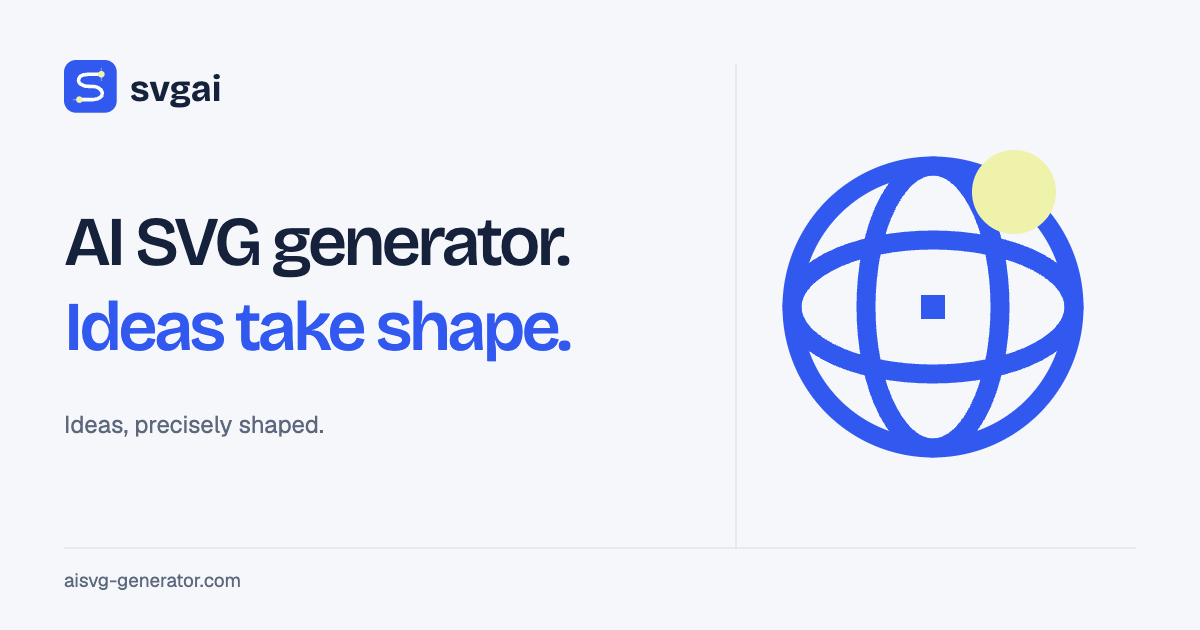
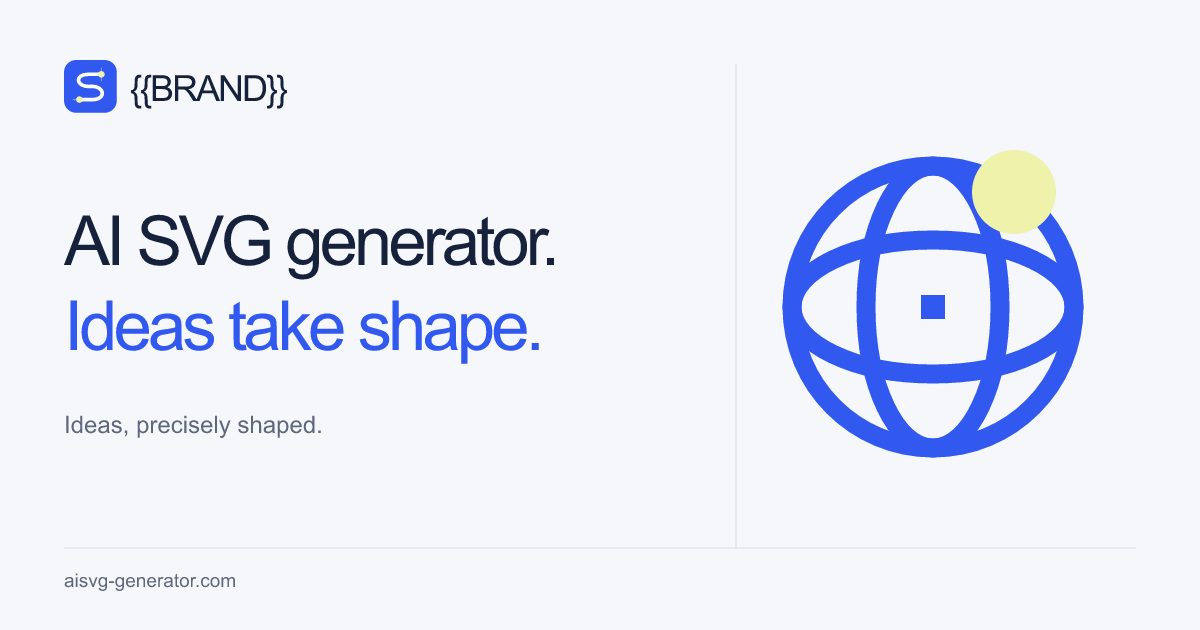
1

diff --git a/src/components/svg-generator.tsx b/src/components/svg-generator.tsx
@@ -40,6 +40,7 @@ import { Link, useRouter } from '@/core/i18n/navigation';
 import { ApiError, apiGet, apiPost } from '@/lib/api-client';
 import {
   getSvgStats,
+  inspectRaster,
   outlineSvg,
   prepareImagePng,
   recolorSvg,
@@ -113,6 +114,10 @@ export function SvgGenerator({
   const [comparisonPosition, setComparisonPosition] = useState(50);
   const [file, setFile] = useState<File | null>(null);
   const [imageUrl, setImageUrl] = useState('');
+  const [imageDimensions, setImageDimensions] = useState<{
+    width: number;
+    height: number;
+  } | null>(null);
   const [removeBackground, setRemoveBackground] = useState(true);
   const [colorCount, setColorCount] = useState(8);
   const [dragging, setDragging] = useState(false);
@@ -610,13 +615,34 @@ export function SvgGenerator({
     return () => window.removeEventListener('svgai:load-sample', listener);
   });
   useEffect(() => {
+    let active = true;
+    setImageUrl('');
+    setImageDimensions(null);
     if (!file) {
-      setImageUrl('');
       return;
     }
     const url = URL.createObjectURL(file);
-    setImageUrl(url);
-    return () => URL.revokeObjectURL(url);
+    void file
+      .arrayBuffer()
+      .then(async (bytes) => {
+        inspectRaster(new Uint8Array(bytes), file.type);
+        const bitmap = await createImageBitmap(file);
+        try {
+          if (active) {
+            setImageDimensions({ width: bitmap.width, height: bitmap.height });
+            setImageUrl(url);
+          }
+        } finally {
+          bitmap.close();
+        }
+      })
+      .catch(() => {
+        if (active) setError(copy.invalid_file);
+      });
+    return () => {
+      active = false;
+      URL.revokeObjectURL(url);
+    };
   }, [file]);
   useEffect(
     () => () => {
@@ -958,6 +984,8 @@ export function SvgGenerator({
                       className="svg-upload-preview"
                       src={imageUrl}
                       alt={copy.uploaded_image}
+                      width={imageDimensions!.width}
+                      height={imageDimensions!.height}
                     />
                     <span className="svg-file-name">{file.name}</span>
                     <button
@@ -1193,6 +1221,9 @@ export function SvgGenerator({
                 colorSrc={artworkUrl}
                 outlineSrc={outlineArtworkUrl}
                 alt={copy.preview_alt}
+                width={stats.width}
+                height={stats.height}
+                priority
                 copy={comparisonCopy}
                 value={comparisonPosition}
                 onValueChange={setComparisonPosition}
@@ -1322,6 +1353,8 @@ export function SvgGenerator({
               colorSrc={artworkUrl}
               outlineSrc={outlineArtworkUrl}
               alt={copy.preview_alt}
+              width={stats.width}
+              height={stats.height}
               copy={comparisonCopy}
               value={comparisonPosition}
               onValueChange={setComparisonPosition}

diff --git a/src/blocks/svg-story.tsx b/src/blocks/svg-story.tsx
@@ -29,8 +29,16 @@ export function SvgIntroduction() {
         </div>
       </div>
       <div className="svg-story-prose">
-        <p>{m['svgai.seo.intro_one']()}</p>
-        <p>{m['svgai.seo.intro_two']()}</p>
+        <p>
+          {m['svgai.seo.intro_one']()} {m['svgai.seo.text_context']()}{' '}
+          <Link href="/text-to-svg">{m['svgai.marketing.nav_text']()}</Link>{' '}
+          {m['svgai.seo.text_context_end']()}
+        </p>
+        <p>
+          {m['svgai.seo.intro_two']()} {m['svgai.seo.image_context']()}{' '}
+          <Link href="/image-to-svg">{m['svgai.marketing.nav_image']()}</Link>{' '}
+          {m['svgai.seo.image_context_end']()}
+        </p>
       </div>
     </section>
   );
@@ -58,13 +66,25 @@ export function SvgUseCases() {
     <section className="svgai-container svg-uses">
       <h2>{m['svgai.seo.uses_title']()}</h2>
       <div className="svg-use-list">
-        {items.map(({ Icon, title, text }) => (
+        {items.map(({ Icon, title, text }, index) => (
           <article key={title}>
             <div className="svg-use-title">
               <Icon size={23} strokeWidth={1.4} />
               <h3>{title}</h3>
             </div>
-            <p>{text}</p>
+            <p>
+              {text}
+              {index === 0 && (
+                <>
+                  {' '}
+                  {m['svgai.seo.examples_context']()}{' '}
+                  <Link href="/examples">
+                    {m['svgai.marketing.nav_examples']()}
+                  </Link>{' '}
+                  {m['svgai.seo.examples_context_end']()}
+                </>
+              )}
+            </p>
           </article>
         ))}
       </div>
@@ -108,7 +128,11 @@ export function SvgClosing() {
     <section className="svgai-container svg-closing">
       <div>
         <h2>{m['svgai.seo.cta_title']()}</h2>
-        <p>{m['svgai.seo.cta_text']()}</p>
+        <p>
+          {m['svgai.seo.cta_text']()} {m['svgai.seo.pricing_context']()}{' '}
+          <Link href="/pricing">{m['svgai.seo.pricing_link']()}</Link>{' '}
+          {m['svgai.seo.pricing_context_end']()}
+        </p>
       </div>
       <Link href="/#generator" className="svg-brand-button">
         {m['svgai.seo.cta_action']()}

diff --git a/src/components/svg-comparison.tsx b/src/components/svg-comparison.tsx
@@ -18,6 +18,8 @@ export function SvgComparison({
   colorSrc,
   outlineSrc,
   alt,
+  width,
+  height,
   copy,
   className,
   value,
@@ -25,10 +27,13 @@ export function SvgComparison({
   scale = 1,
   disabled = false,
   loading = 'eager',
+  priority = false,
 }: {
   colorSrc: string;
   outlineSrc: string;
   alt: string;
+  width: number;
+  height: number;
   copy: SvgComparisonCopy;
   className?: string;
   value?: number;
@@ -36,6 +41,7 @@ export function SvgComparison({
   scale?: number;
   disabled?: boolean;
   loading?: 'eager' | 'lazy';
+  priority?: boolean;
 }) {
   const hintId = useId();
   const [position, setPosition] = useState(50);
@@ -55,9 +61,12 @@ export function SvgComparison({
         <img
           className="svg-comparison-image svg-comparison-outline"
           src={outlineSrc}
+          width={width}
+          height={height}
           alt=""
           draggable={false}
           loading={loading}
+          fetchPriority={priority ? 'high' : undefined}
           decoding="async"
         />
       </div>
@@ -65,9 +74,12 @@ export function SvgComparison({
         <img
           className="svg-comparison-image"
           src={colorSrc}
+          width={width}
+          height={height}
           alt=""
           draggable={false}
           loading={loading}
+          fetchPriority={priority ? 'high' : undefined}
           decoding="async"
         />
       </div>

diff --git a/src/components/svg-example-gallery.tsx b/src/components/svg-example-gallery.tsx
@@ -2,7 +2,7 @@ import { useId, useMemo, useState } from 'react';
 import type { SvgSample, SvgStyle } from '@/types/svg-generator';
 import { ArrowUpRight, ChevronsLeftRight } from 'lucide-react';
 
-import { outlineSvg, svgToDataUrl } from '@/lib/svg-vectorizer';
+import { getSvgStats, outlineSvg, svgToDataUrl } from '@/lib/svg-vectorizer';
 import {
   SvgComparison,
   type SvgComparisonCopy,
@@ -41,6 +41,7 @@ export function SvgExampleGallery({
     () =>
       samples.map((sample) => ({
         ...sample,
+        dimensions: getSvgStats(sample.svg),
         colorUrl: svgToDataUrl(sample.svg),
         outlineUrl: svgToDataUrl(outlineSvg(sample.svg)),
       })),
@@ -105,6 +106,8 @@ export function SvgExampleGallery({
                 colorSrc={sample.colorUrl}
                 outlineSrc={sample.outlineUrl}
                 alt={sample.title}
+                width={sample.dimensions.width}
+                height={sample.dimensions.height}
                 copy={copy.comparison}
                 scale={1.16}
                 loading="lazy"

diff --git a/src/blocks/svg-workflow.tsx b/src/blocks/svg-workflow.tsx
@@ -6,6 +6,7 @@ import {
   ShieldCheck,
 } from 'lucide-react';
 
+import { Link } from '@/core/i18n/navigation';
 import { SVG_SAMPLES } from '@/lib/svg-samples';
 import { m } from '@/paraglide/messages.js';
 
@@ -36,6 +37,11 @@ export function SvgWorkflow() {
     >
       <div className="svgai-section-intro">
         <h2>{m['svgai.marketing.workflow_title']()}</h2>
+        <p>
+          {m['svgai.seo.how_context']()}{' '}
+          <Link href="/how-it-works">{m['svgai.seo.how_link']()}</Link>{' '}
+          {m['svgai.seo.how_context_end']()}
+        </p>
       </div>
       <ol className="svgai-workflow">
         {steps.map(({ icon: Icon, title, description }, index) => (

diff --git a/src/config/index.ts b/src/config/index.ts
@@ -16,7 +16,7 @@ const publicEnv = (key: string) => metaEnv[key] ?? procEnv[key];
 export const envConfigs: Record<string, string> = {
   // App (public)
   app_url: publicEnv('VITE_APP_URL') ?? 'http://localhost:3000',
-  app_name: publicEnv('VITE_APP_NAME') ?? 'My App',
+  app_name: publicEnv('VITE_APP_NAME') ?? '{{BRAND}}',
   app_description:
     publicEnv('VITE_APP_DESCRIPTION') ??
     'Your workspace for projects and tools.',

diff --git a/src/blocks/footer.tsx b/src/blocks/footer.tsx
@@ -16,6 +16,7 @@ export function Footer() {
                 alt=""
                 width={29}
                 height={29}
+                loading="lazy"
               />
               <span>{envConfigs.app_name}</span>
             </Link>

diff --git a/docs/audits/homepage-seo-2026-11-17.md b/docs/audits/homepage-seo-2026-11-17.md
@@ -1,0 +1,86 @@
+# Homepage SEO changes — 2026-11-17
+
+The brand placeholder is rendered literally as `{{BRAND}}`. This change is local and has not been committed, pushed, or deployed. Existing URL paths, the production domain, and the homepage H1 remain unchanged.
+
+## 1. Brand replacement
+
+Direct brand edits:
+
+- `.env.example` (public example values)
+- `cloudflare/production.json` (public application name only; Worker and D1 resource names unchanged)
+- `src/config/index.ts` (fallback application name)
+- `messages/en.json` (brand mentions in titles, descriptions and product copy)
+- `src/content/pages/privacy-policy.en.mdx`
+- `src/content/pages/terms-of-service.en.mdx`
+- `public/brand/wordmark.svg`
+- `public/brand/wordmark-reverse.svg`
+- `public/brand/social-card.svg`
+- `public/brand/social-card.png` (regenerated from the updated SVG)
+
+The ignored local development/production env files were aligned as well. Header, mobile navigation, footer copyright, Open Graph site name and structured-data application/site names inherit the configured application name. Literal braces are escaped in the existing Paraglide message format; MDX uses character entities in body content.
+
+Rendered homepage brand remnants: **0** in body text, metadata and JSON-LD. A source grep for an isolated quoted/text-node `svgai` also finds **0**. Existing internal CSS/i18n identifiers, visitor cookies, and Cloudflare resource names retain their technical namespaces to avoid unrelated refactoring or data changes.
+
+## 2. Images
+
+- Added missing dimensions to **34 of 37** homepage images. Final coverage: **37/37**.
+- All 16 SVG gallery sources have verified `512 × 512` viewports; both comparison layers receive their source dimensions. The generator uses the current SVG dimensions rather than a fixed guess.
+- Both first-screen visual layers use `fetchpriority="high"`. The 34 images outside that visual/header use `loading="lazy"`, including the footer mark.
+- Uploaded image previews wait for validated image dimensions. Browser verification with a `120 × 80` PNG confirmed matching attributes and decoded dimensions.
+- Existing image CSS sizing, object fit and responsive behavior were preserved.
+
+## 3. Homepage description
+
+> Use our AI SVG generator to turn text and image inputs into editable SVG files, preview vector artwork, refine colors, and export SVG designs.
+
+**142 characters**, one complete English sentence containing `AI SVG generator`, `text`, `image`, and editable SVG export.
+
+## 4. Internal anchors
+
+| Destination (unchanged) | Before                                               | After                                                                                   |
+| ----------------------- | ---------------------------------------------------- | --------------------------------------------------------------------------------------- |
+| `/text-to-svg`          | Text to SVG; Explore text to SVG; no paragraph link  | Text to SVG in a body paragraph and navigation/footer; existing keyword button retained |
+| `/image-to-svg`         | Image to SVG; Convert an image; no paragraph link    | Image to SVG in a body paragraph and navigation/footer; button: Explore image to SVG    |
+| `/examples`             | Examples in navigation/footer; no paragraph link     | SVG examples in a body paragraph and navigation/footer                                  |
+| `/how-it-works`         | How it works in navigation/footer; no paragraph link | how it works in a body paragraph; How it works in navigation/footer                     |
+| `/pricing`              | Pricing in navigation/footer; no paragraph link      | pricing in a body paragraph; Pricing in navigation/footer                               |
+
+All five destinations have at least one paragraph entry and one navigation/footer entry. No routes or trailing-slash conventions were changed.
+
+## 5. Copy and frequency
+
+| Scope                                                          | Before | After |
+| -------------------------------------------------------------- | -----: | ----: |
+| Editorial main content, excluding repeated accessibility hints |   1844 |  1618 |
+| Main HTML text, including accessibility hints                  |   1948 |  1722 |
+| Full body, including navigation/footer                         |   2008 |  1784 |
+
+Counts use server-rendered HTML text, omit scripts/styles/inline SVG markup, and count English words with internal apostrophes/hyphens as single tokens. FAQ content remains included. Full HTML counts are retained as a conservative check against the 1,800-word ceiling.
+
+Frequency ranking removes repeated screen-reader-only interaction hints and common grammatical English stopwords, and combines singular/plural forms. Generic content words such as `your`, `create`, `make`, and `ideas` are retained.
+
+| Word     | Count |
+| -------- | ----: |
+| svg      |    68 |
+| vector   |    40 |
+| image    |    37 |
+| color    |    31 |
+| preview  |    24 |
+| outline  |    24 |
+| editable |    21 |
+| icon     |    21 |
+| ai       |    20 |
+| logo     |    20 |
+
+Six entries directly match the requested topic words: SVG, vector, image, editable, icon, logo. Color, preview, outline and AI also describe the tool. Generic-word totals in the complete main HTML: `your` 2, `create` 1, `make` 2, `ideas` 1.
+
+The exact phrase `ai svg generator` occurs **9** times in main content, case-insensitive, including the unchanged H1: `AI SVG generator. Ideas take shape.`
+
+## Validation
+
+- `pnpm build`: passed.
+- `pnpm exec tsc --noEmit`: passed.
+- Prettier check across every changed TypeScript/TSX/JSON/MDX file: passed.
+- `git diff --check`: passed.
+- This repository has no standalone ESLint/lint command. The existing Prettier rules and TypeScript checks were used without adding a linter or changing tooling.
+- Browser checked at 390px: no horizontal overflow; literal brand placeholder visible, all homepage images have dimensions.
